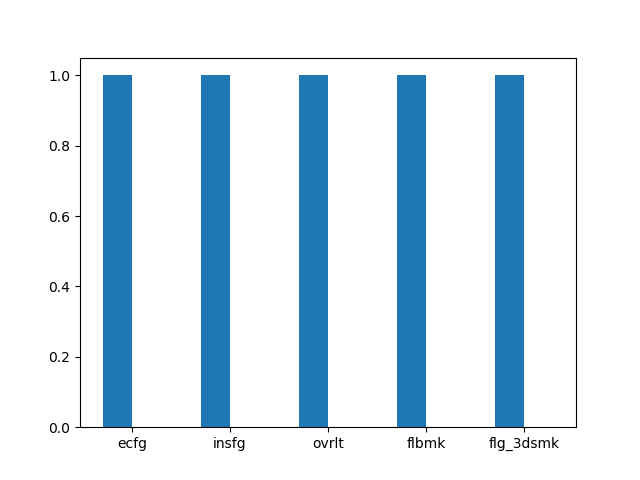
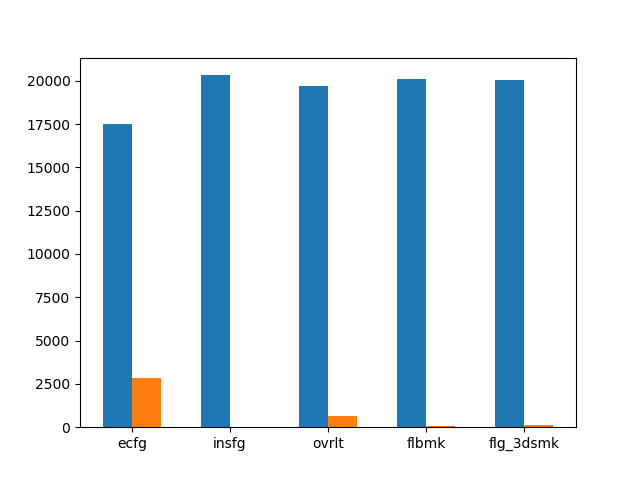
Fix: output pic with train.csv

diff --git a/data_preprocess.py b/data_preprocess.py
@@ -1,4 +1,5 @@
 # data preprocess
+import sklearn
 import pandas as pd
 
 def read_csv_to_df(filename):
@@ -18,6 +19,13 @@ def normalize_regression_feature(df, columns):
     for column in columns:
         df[column] = (df[column] - df[column].min()) / (df[column].max() - df[column].min())
     return df
+
+def one_hot_encoding(df, columns):
+    enc = sklearn.preprocessing.OneHotEncoder()
+    for column in columns:
+        return
+
+
 
 def _get_rows_based_on_column_val(df, col_name, val):
     rows = df.loc[df[col_name] == val]

diff --git a/data_analysis.py b/data_analysis.py
@@ -35,7 +35,7 @@ def binary_histogram(df, col_names, save=True, save_name='example'):
 
 if __name__ == '__main__':
     print('data analysis')
-    df = data_preprocess.read_csv_to_df('./data/train_small.csv')
+    df = data_preprocess.read_csv_to_df('./data/train.csv')
     # count_each_column(df)
 
     # split fraud and real data
